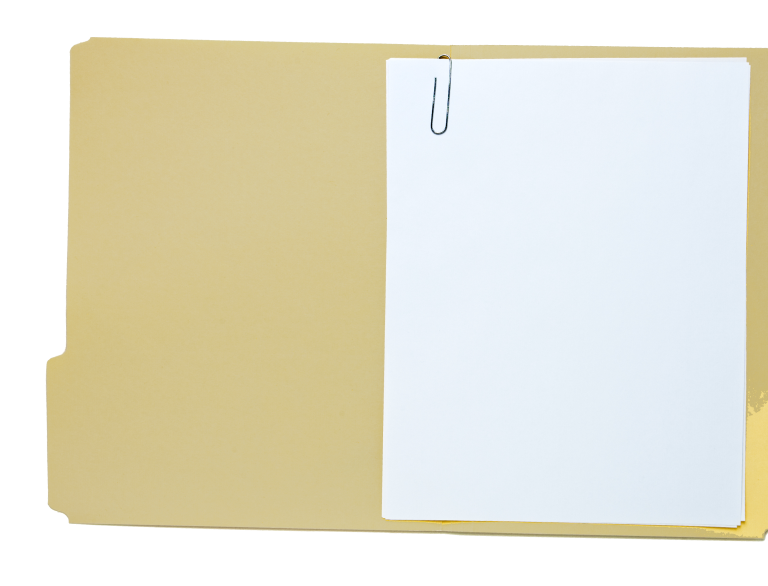
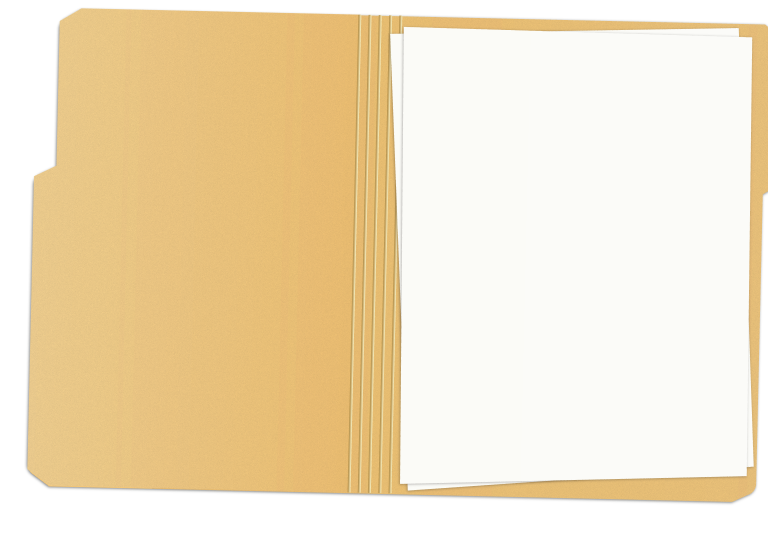
🐛 Replace assets in alpd video home component

Changed region(s): [[0.0312, 0.0, 1.0, 0.9429]]

diff --git a/src/styles/components/_alpd-video.scss b/src/styles/components/_alpd-video.scss
@@ -2,6 +2,10 @@
     width: 100%;
     position: relative;
 
+    @media screen and (min-width: 1800px) {
+        margin-bottom: 4rem;
+    }
+
     .alpd-video__wrapper {
         height: calc(217px + ((537 - 217) * ((100vw - 320px) / (768 - 320))));
 
@@ -12,7 +16,7 @@
 
     .alpd-video__assets-container {
         position: absolute;
-        top: -12px;
+        top: 5px;
         left: 0;
         width: 100%;
         height: 100%;
@@ -47,18 +51,24 @@
 
         .asset__notebook {
             @media screen and (min-width: 768px) {
-                top: 20%;
+                top: 16%;
+                opacity: .5;
+                filter: drop-shadow(0px 4px 4px rgba(0, 0, 0, 0.25));
 
                 img {
                     height: calc(440px + ((635 - 420) * ((100vw - 768px) / (1440 - 768))));
                 }
             }
+
+            @media screen and (min-width: 1440px) {
+                top: 9%;
+            }
         }
 
         .asset__backpack {
             @media screen and (min-width: 768px) {
-                top: 50%;
-                right: 0;
+                top: 46%;
+                right: -6px;
                 transform: translateY(-37%);
 
                 img {
@@ -68,15 +78,25 @@
 
             @media screen and (min-width: 1300px) {
                 transform: translateY(-43%);
+                right: 0;
             }
         }
 
         .asset__folder {
             @media screen and (min-width: 768px) {
+                top: -3%;
 
                 img {
-                    width: calc(768px + ((892 - 768) * ((100vw - 768px) / (1440 - 768))));
+                    width: calc(768px + ((1130 - 768) * ((100vw - 768px) / (1440 - 768))));
                 }
+            }
+
+            @media screen and (min-width: 1024px) {
+                top: 0;
+            }
+
+            @media screen and (min-width: 1800px) {
+                top: -3%;
             }
         }
 
@@ -354,7 +374,7 @@
 
             @media screen and (min-width: 1440px) {
                 .alpd-form__paperclip {
-                    top: -45px;
+                    top: -34px;
                     left: 25px;
                 }
             }
